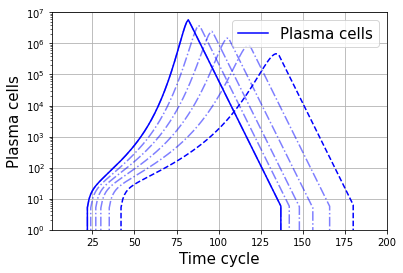
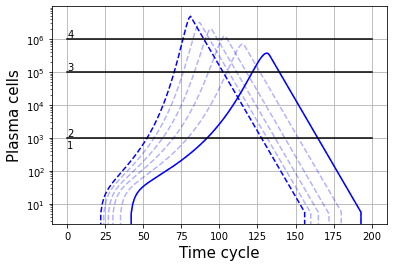
update to immunesystem

Changed region(s): [[0.0, 0.0, 1.0, 0.9888]]

diff --git a/ImmuneSystem.py b/ImmuneSystem.py
@@ -38,6 +38,9 @@ virus = 100
 plasma = 0
 mcell = 3
 
+# =============================================================================
+# Chronic 
+# =============================================================================
 parameterTimeChanger = 8
 a = 1/parameterTimeChanger #np.random.normal(2,0.2)
 b = 1/parameterTimeChanger
@@ -46,9 +49,30 @@ d = 0.0002/parameterTimeChanger
 e = 5.5/parameterTimeChanger
 f = 0.5/parameterTimeChanger
 g = 0.10/parameterTimeChanger
+parameterRange = np.array([0.6, 1.5, 0.7, 0.8, 0.9, 1.1, 1.2, 1.3, 1.4])/parameterTimeChanger # Chronic
+symptomTwo = 1000
+symptomThree = 10000
+symptomFour = 30000
+time = 700
+fulltime = 2000
 
-time = 500
-fulltime = 1000
+# =============================================================================
+# Base case
+# =============================================================================
+# parameterTimeChanger = 18
+# a = 1/parameterTimeChanger #np.random.normal(2,0.2)
+# b = 0.5/parameterTimeChanger
+# c = 0.1/parameterTimeChanger # np.random.normal(1,0.1)
+# d = 0.001/parameterTimeChanger
+# e = 3/parameterTimeChanger
+# f = 0.5/parameterTimeChanger
+# g = 0.5/parameterTimeChanger
+# parameterRange = np.array([1, 2, 1.2, 1.4, 1.6, 1.8])/parameterTimeChanger # Chronic
+# symptomTwo = 1000
+# symptomThree = 100000
+# symptomFour = 1000000
+# time = 200
+# fulltime = 800
 
 
 fig1, ax1 = plt.subplots(1)
@@ -56,24 +80,25 @@ fig2, ax2 = plt.subplots(1)
 fig3, ax3 = plt.subplots(1)
 fig4, ax4 = plt.subplots(1)
 
-for count, a in enumerate(np.array([0.6, 1.5, 0.7, 0.8, 0.9, 1.1, 1.2, 1.3, 1.4])/parameterTimeChanger):
+
+for count, a in enumerate(parameterRange):
     virusPlot, plasmaPlot, mcellPlot = Model(a,b,c,d,e,f,g,fulltime, virus, plasma, mcell)
     alphaValue = 1
     if count == 0:
-        ax1.plot(range(time),virusPlot[:time], c = 'red', alpha = alphaValue, label = 'upper')
-        ax1.plot(range(time),plasmaPlot[:time], c = 'blue', alpha = alphaValue)
-        ax1.plot(range(time),mcellPlot[:time], c = 'green', alpha = alphaValue)
-        ax2.plot(range(time),virusPlot[:time], c = 'red', alpha = alphaValue, label = 'Antigen') 
-        ax3.plot(range(time),plasmaPlot[:time], c = 'blue', alpha = alphaValue, label = 'Plasma cells')
-        ax4.plot(range(fulltime),mcellPlot[:fulltime], c = 'green', alpha = alphaValue, label = 'M cells')
-        
-    if count == 1:
-        ax1.plot(range(time),virusPlot[:time], c = 'red', alpha = alphaValue, label = 'lower', linestyle = '--')
+        ax1.plot(range(time),virusPlot[:time], c = 'red', alpha = alphaValue, label = 'Lower', linestyle = '--')
         ax1.plot(range(time),plasmaPlot[:time], c = 'blue', alpha = alphaValue, linestyle = '--')
         ax1.plot(range(time),mcellPlot[:time], c = 'green', alpha = alphaValue, linestyle = '--')
-        ax2.plot(range(time),virusPlot[:time], c = 'red', alpha = alphaValue, linestyle = '--')
-        ax3.plot(range(time),plasmaPlot[:time], c = 'blue', alpha = alphaValue, linestyle = '--')
-        ax4.plot(range(fulltime),mcellPlot[:fulltime], c = 'green', alpha = alphaValue, linestyle = '--')
+        ax2.plot(range(time),virusPlot[:time], c = 'red', alpha = alphaValue, label = 'Antigen', linestyle = '--') 
+        ax3.plot(range(time),plasmaPlot[:time], c = 'blue', alpha = alphaValue, label = 'Plasma cells', linestyle = '--')
+        ax4.plot(range(fulltime),mcellPlot[:fulltime], c = 'green', alpha = alphaValue, label = 'M cells', linestyle = '--')
+        
+    if count == 1:
+        ax1.plot(range(time),virusPlot[:time], c = 'red', alpha = alphaValue, label = 'Upper' )
+        ax1.plot(range(time),plasmaPlot[:time], c = 'blue', alpha = alphaValue )
+        ax1.plot(range(time),mcellPlot[:time], c = 'green', alpha = alphaValue )
+        ax2.plot(range(time),virusPlot[:time], c = 'red', alpha = alphaValue )
+        ax3.plot(range(time),plasmaPlot[:time], c = 'blue', alpha = alphaValue )
+        ax4.plot(range(fulltime),mcellPlot[:fulltime], c = 'green', alpha = alphaValue)
         
     else:
         alphaValue = 0.3
@@ -86,14 +111,24 @@ ax2.set_ylabel('Antigen', fontsize = 15)
 ax3.set_ylabel('Plasma cells', fontsize = 15)
 ax4.set_ylabel('M cells', fontsize = 15)
 
+ax3.plot([0, time], [symptomTwo, symptomTwo], c = 'black')
+ax3.plot([0, time], [symptomThree, symptomThree], c = 'black')
+ax3.plot([0, time], [symptomFour, symptomFour], c = 'black')
+ax3.text(0, symptomTwo/2, "1")
+ax3.text(0, symptomTwo*1.1, "2")
+ax3.text(0, symptomThree*1.1, "3")
+ax3.text(0, symptomFour*1.1, "4")
+
+ax4.plot([0, fulltime], [50000, 50000])
+
+ax1.legend(fontsize = 15)
 
 for axes in [ax1,ax2,ax3,ax4]:
-    if axes != ax4:
-        axes.axis([1, time, 1, 1e5])
-    if axes == ax4:
-        axes.axis([1, fulltime, 1, 1e5])
+    # if axes != ax4:
+        # axes.axis([1, time, 1, 1e5])
+    # if axes == ax4:
+    #     axes.axis([1, fulltime, 1, 1e5])
     axes.set_xlabel('Time cycle', fontsize = 15)
-    axes.legend(prop={'size': 15})
     axes.set_yscale('log')
     axes.grid()
 
